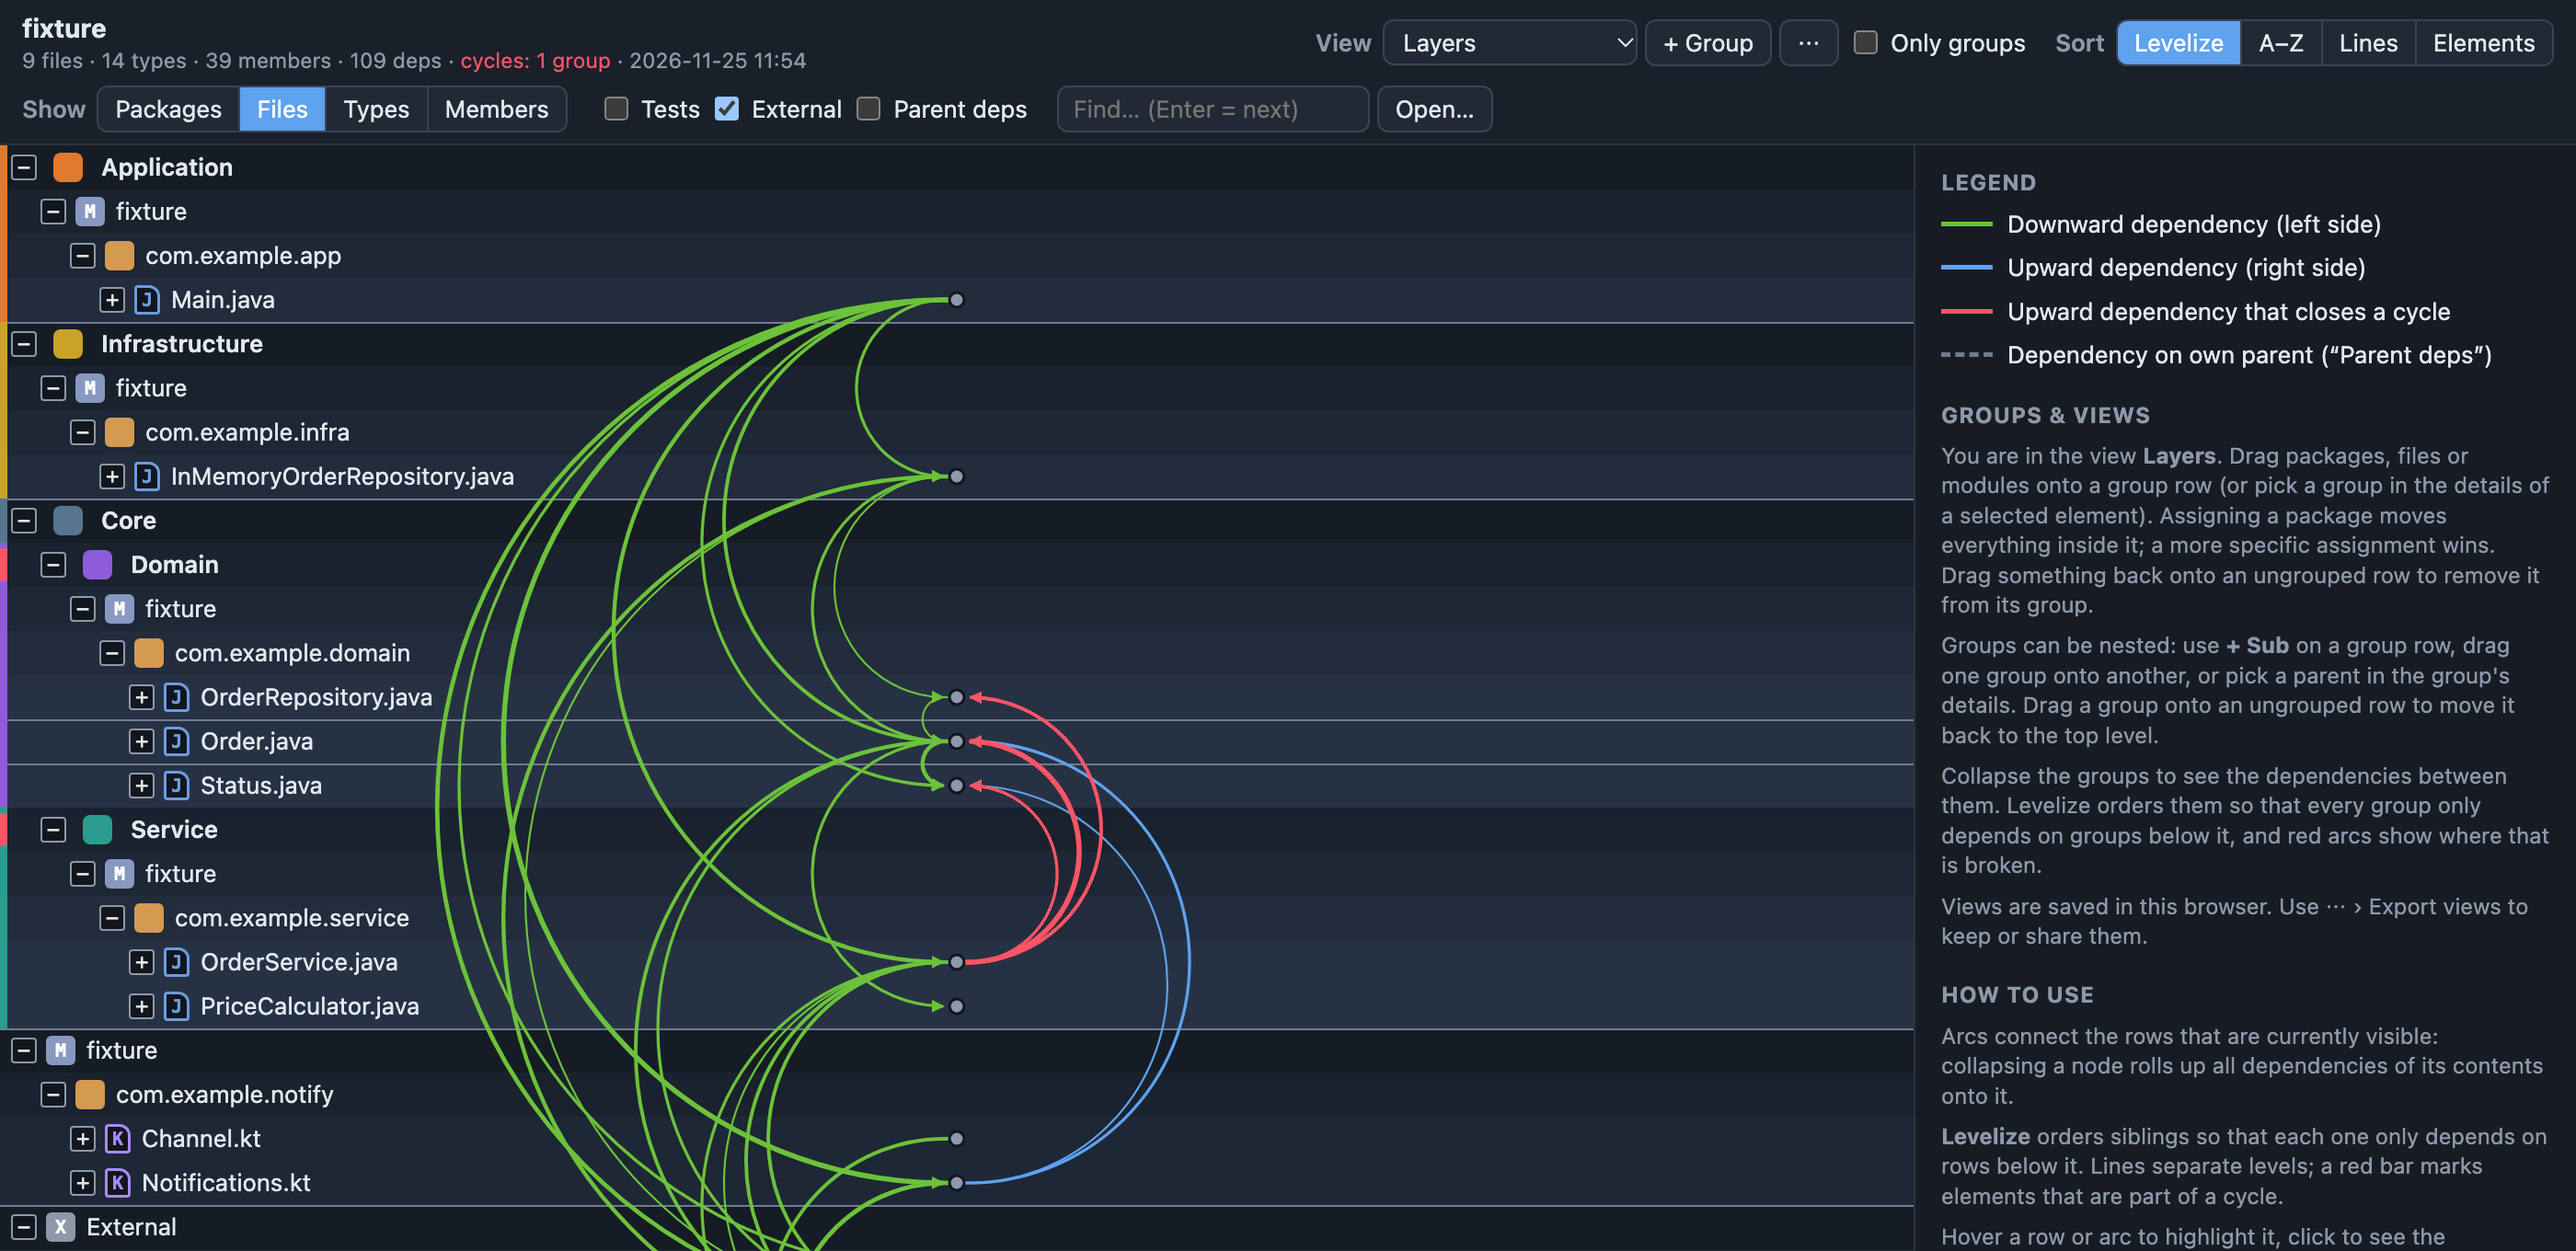
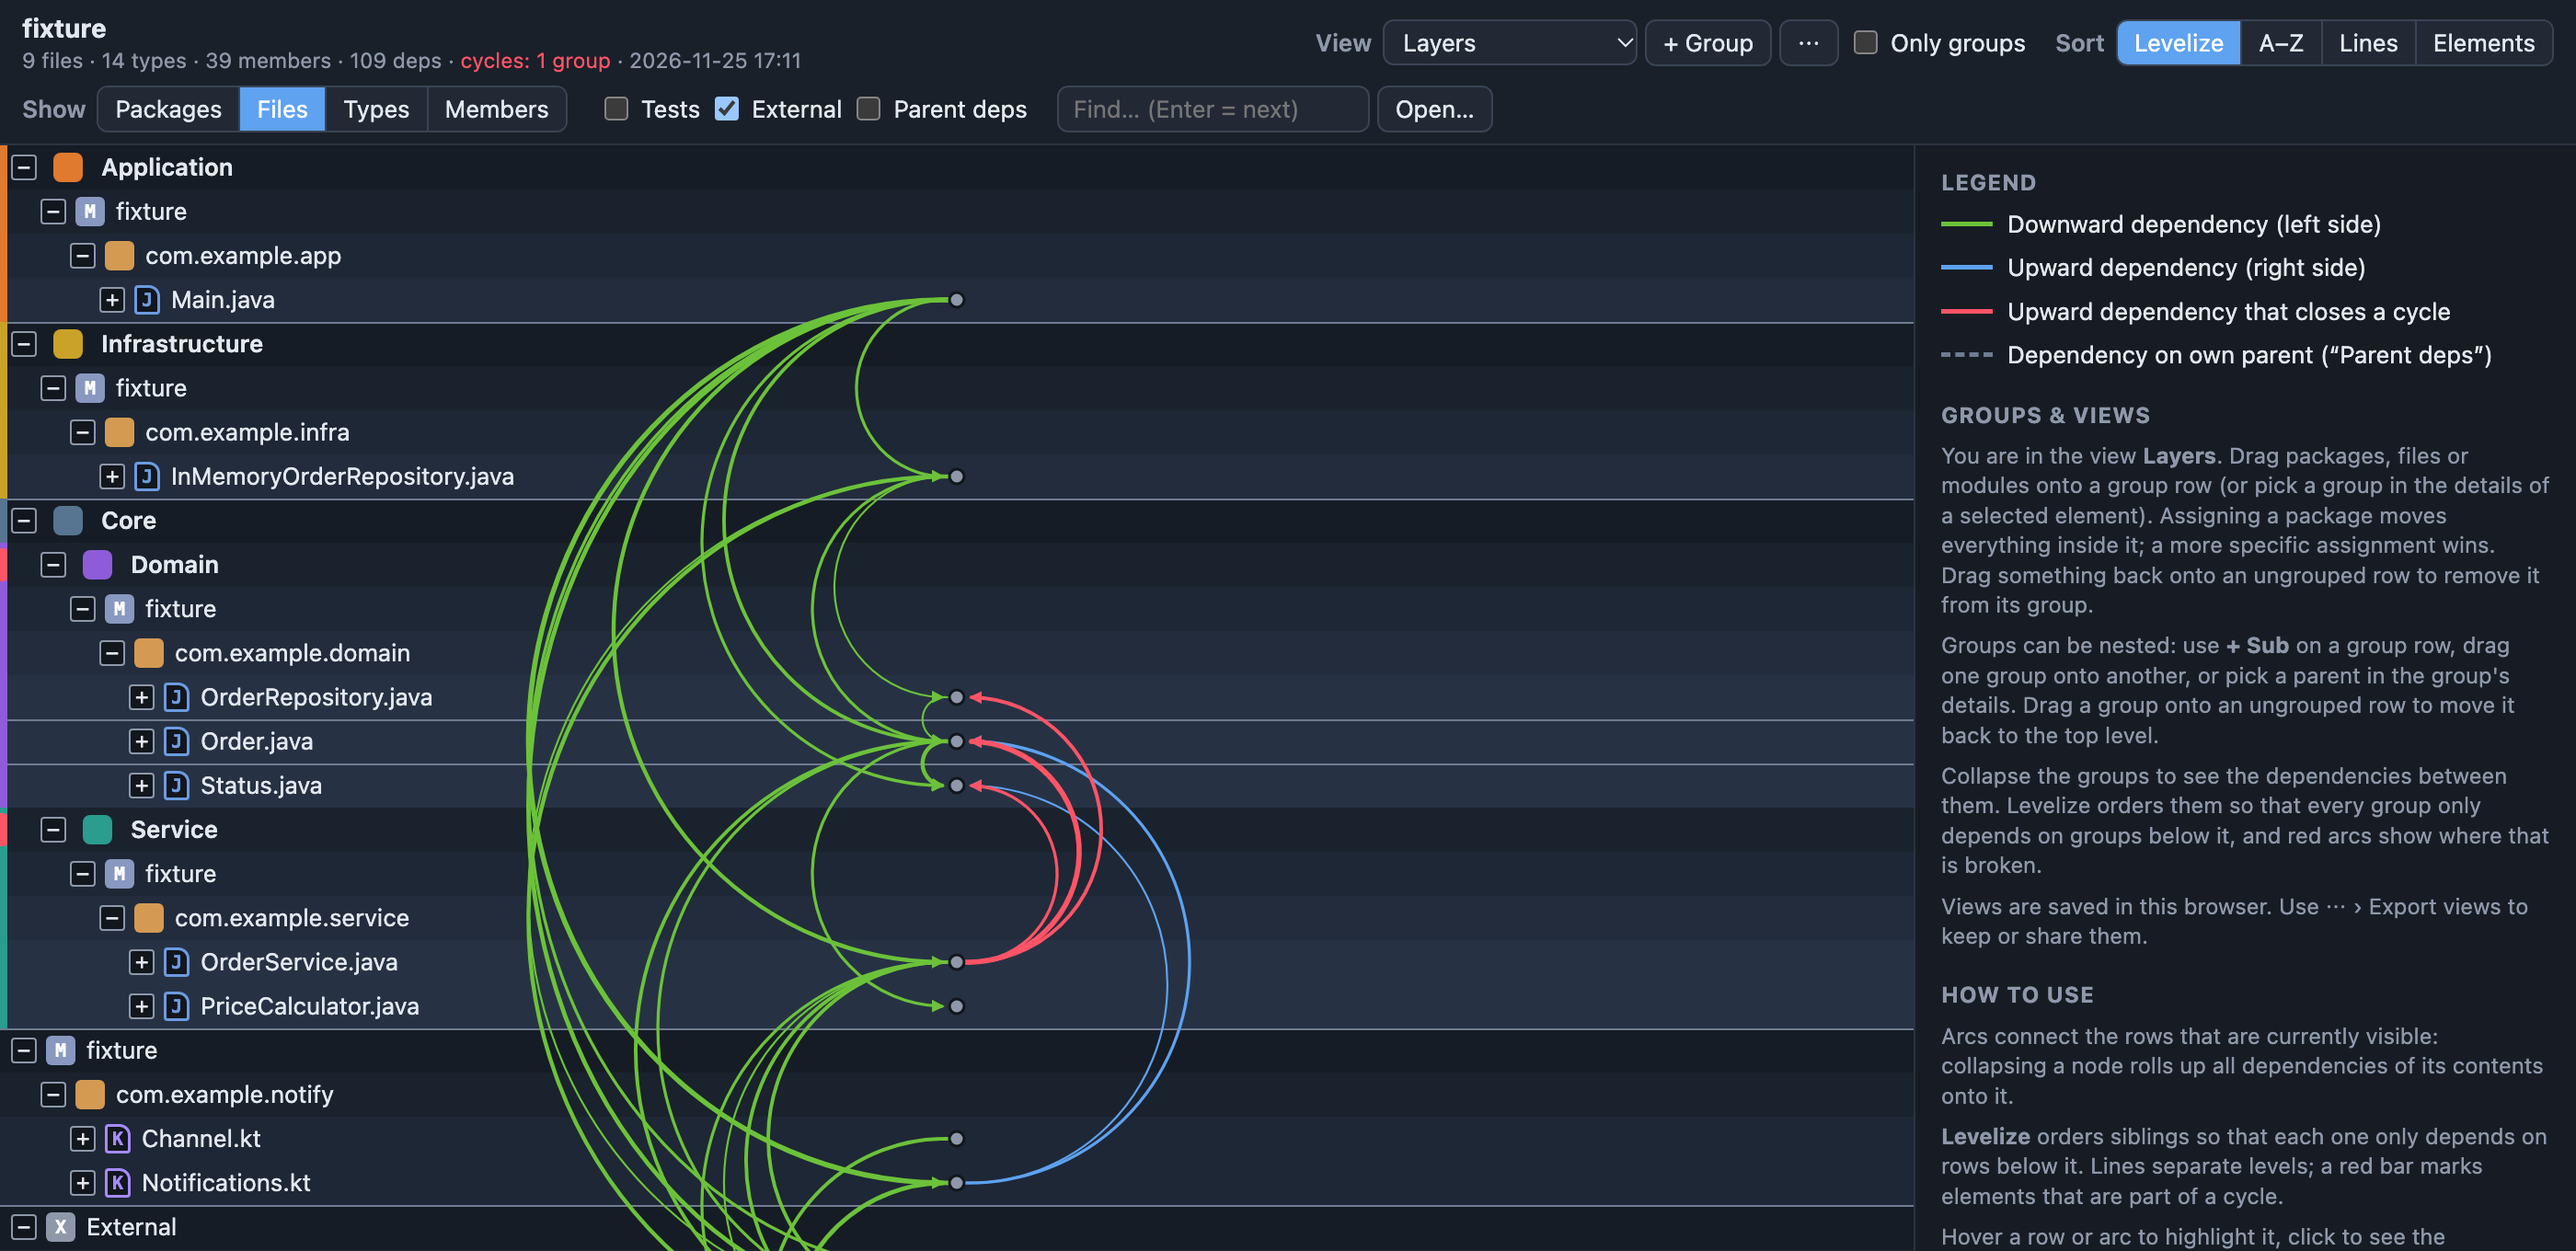
Keep downward arcs out of the label area
On large projects, long downward arcs could reach almost to x=0 and
sweep across the tree labels, making names hard to read. Their
horizontal radius is now capped at the space between the widest label
and the anchor column, so long arcs become tall, narrow ellipses.

A smoke-test check (test/checks/viewer_arcs.py) computes the leftmost
point of every rendered downward arc from the dumped DOM and fails if
it reaches into the labels; the viewer publishes the widest label's
right edge as body[data-labels] for it. Spec: docs/specs/viewer-arcs.md.

Fixes #1

diff --git a/viewer.html b/viewer.html
@@ -653,7 +653,8 @@ function draw() {
   for (const n of rows) maxLabel = Math.max(maxLabel, 6 + n.depth * IND + 19 + 22 + textWidth(n.n) + (st.sort === 'loc' || st.sort === 'elems' ? 44 : 0));
   const ax = Math.round(Math.min(Math.max(maxLabel + 36, W * 0.5), Math.max(maxLabel + 36, W - 110)));
   const width = Math.max(W, ax + 110);
-  const maxL = ax - 8, maxR = Math.max(24, width - ax - 14);
+  // Left (downward) arcs stay between the widest label and the anchor column (docs/specs/viewer-arcs.md).
+  const maxL = Math.max(5, ax - maxLabel - 12), maxR = Math.max(24, width - ax - 14);
   arcs = computeArcs();
   rowArcs = new Map();
   const add = (n, i) => { let l = rowArcs.get(n); if (!l) rowArcs.set(n, l = []); l.push(i); };
@@ -684,6 +685,7 @@ function draw() {
   document.body.dataset.rows = rows.length;
   document.body.dataset.arcs = arcs.length;
   document.body.dataset.view = (curView() || { name: '' }).name;
+  document.body.dataset.labels = Math.ceil(maxLabel);
   const input = rowsEl.querySelector('.gname');
   if (input) { input.focus(); input.select(); }
 }

diff --git a/test/checks/viewer_arcs.py b/test/checks/viewer_arcs.py
@@ -1,0 +1,38 @@
+"""Viewer arc geometry (docs/specs/viewer-arcs.md), checked on a DOM dumped by headless Chrome.
+
+Usage: python3 -I test/checks/viewer_arcs.py build/fixture-members.dom.html
+
+Every downward arc (bulging left of the anchor column) must stay at least MARGIN px to the right
+of the widest label, which the viewer publishes as <body data-labels="...">.
+"""
+import math
+import re
+import sys
+
+MARGIN = 4
+
+dom = open(sys.argv[1], encoding="utf-8").read()
+body = re.search(r"<body[^>]*>", dom).group(0)
+m = re.search(r'data-labels="(\d+)"', body)
+if not m:
+    sys.exit("FAIL: <body data-labels> missing (viewer must publish the widest label's right edge)")
+labels = int(m.group(1))
+
+arc = re.compile(r'<path class="arc [^"]*" data-a="\d+" d="M([\d.]+) ([\d.]+)A([\d.]+) ([\d.]+) 0 0 0 ([\d.]+) ([\d.]+)"')
+checked, bad = 0, []
+for x1, y1, rx, ry, x2, y2 in (tuple(map(float, g)) for g in arc.findall(dom)):
+    if x2 >= x1:  # upward arc, bulges right
+        continue
+    checked += 1
+    # SVG scales the radii up when the ellipse is too small for the chord (endpoints differ in x).
+    hx, hy = (x1 - x2) / 2, (y1 - y2) / 2
+    lam = (hx / rx) ** 2 + (hy / ry) ** 2 if ry else 1
+    left = (x1 + x2) / 2 - rx * math.sqrt(max(1.0, lam))
+    if left < labels + MARGIN:
+        bad.append((round(left, 1), y1, y2))
+
+if not checked:
+    sys.exit("FAIL: no downward arcs found to check")
+if bad:
+    sys.exit(f"FAIL: {len(bad)} of {checked} downward arcs reach into the labels (right edge {labels}px), e.g. {bad[:3]}")
+print(f"ok ({checked} downward arcs stay right of the labels at {labels}px)")

diff --git a/docs/specs/viewer-arcs.md b/docs/specs/viewer-arcs.md
@@ -1,0 +1,29 @@
+# Viewer: arc geometry
+
+Status: implemented (issue #1)
+
+## Goal
+
+Arcs must not cover the tree labels. On large projects, long downward arcs (drawn to the left
+of the anchor column) used to sweep across the label area, making names in the middle of the list
+hard to read.
+
+## Behaviour
+
+- Every row's anchor sits in one column at `x = ax`. Upward arcs bulge to the right of it,
+  downward arcs to the left. An arc between rows `r1` and `r2` is half an ellipse with vertical
+  radius `|y2 - y1| / 2`.
+- The horizontal radius is `min(vertical radius, cap)`. On the right, the cap is the space up to
+  the viewport edge (unchanged). On the left, the cap is the space between the **widest label** of
+  the visible rows and the anchor column, minus a small margin. Long arcs therefore become tall,
+  narrow ellipses instead of reaching into the labels.
+- Checkable statement: for every downward arc, the leftmost point of the rendered ellipse lies at
+  least 4px to the right of the widest label's right edge. The viewer publishes that edge as
+  `document.body.dataset.labels` (pixels, rounded up) for the smoke test.
+- Short arcs (vertical radius below the cap) look exactly as before.
+
+## Out of scope
+
+- Fading unrelated arcs more strongly on large projects, or drawing labels on an opaque background
+  (alternatives listed in the issue; not needed once arcs stay out of the label area).
+- Performance of drawing many arcs (issue #2).
